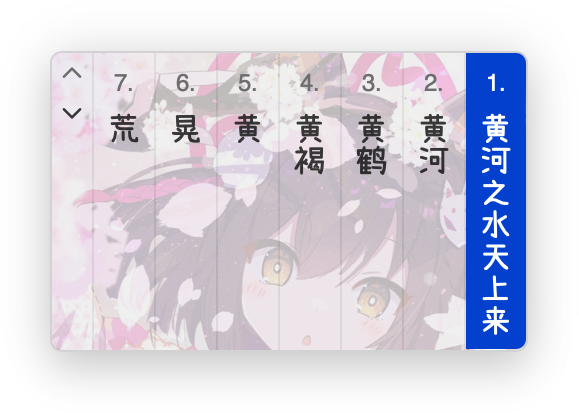
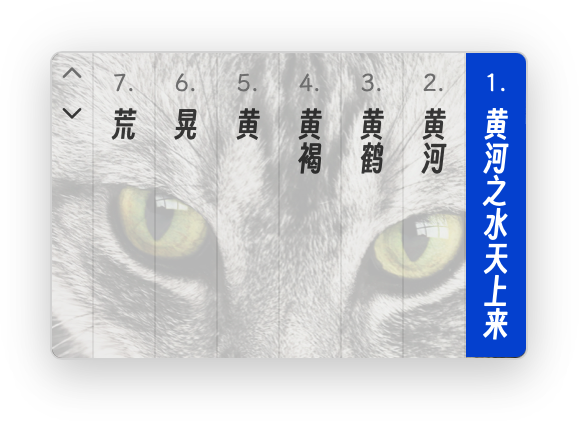
replace copyrighted materials

diff --git a/docs/index.md b/docs/index.md
@@ -28,10 +28,14 @@
 
 <img src="../public/demo/background-layout-font.png" width="350">
 
+（背景图：[Close Up Photography of White and Black Cat](https://www.pexels.com/photo/close-up-photography-of-white-and-black-cat-69932/), CC0 许可）
+
 ### 卷轴模式
 
 ![卷轴模式](../public/demo/win11-light-scroll.png)
 
-### 异形窗口
+### 深度定制
 
-![异形窗口](../public/demo/decoration.png)
+[定制 CSS](./theme/css.md) 可以深度个性化界面，异形窗口等也可实现：
+
+![异形候选窗](../public/demo/decoration.png)
